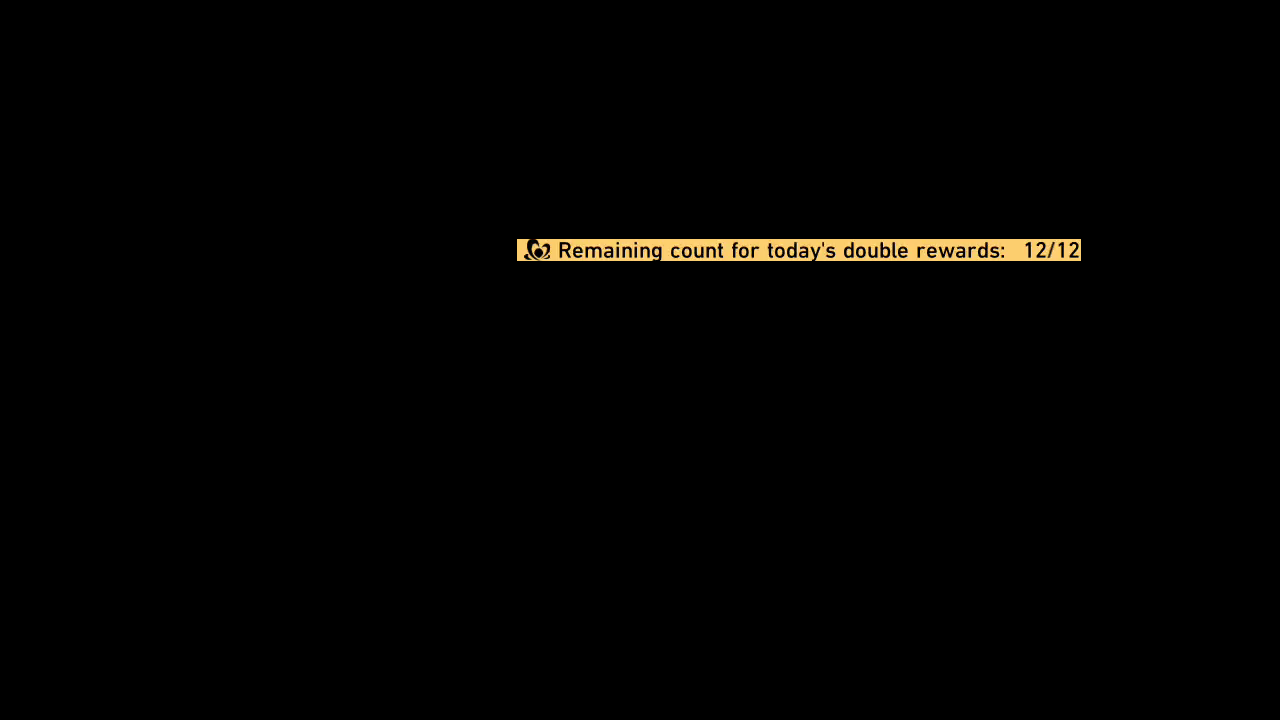
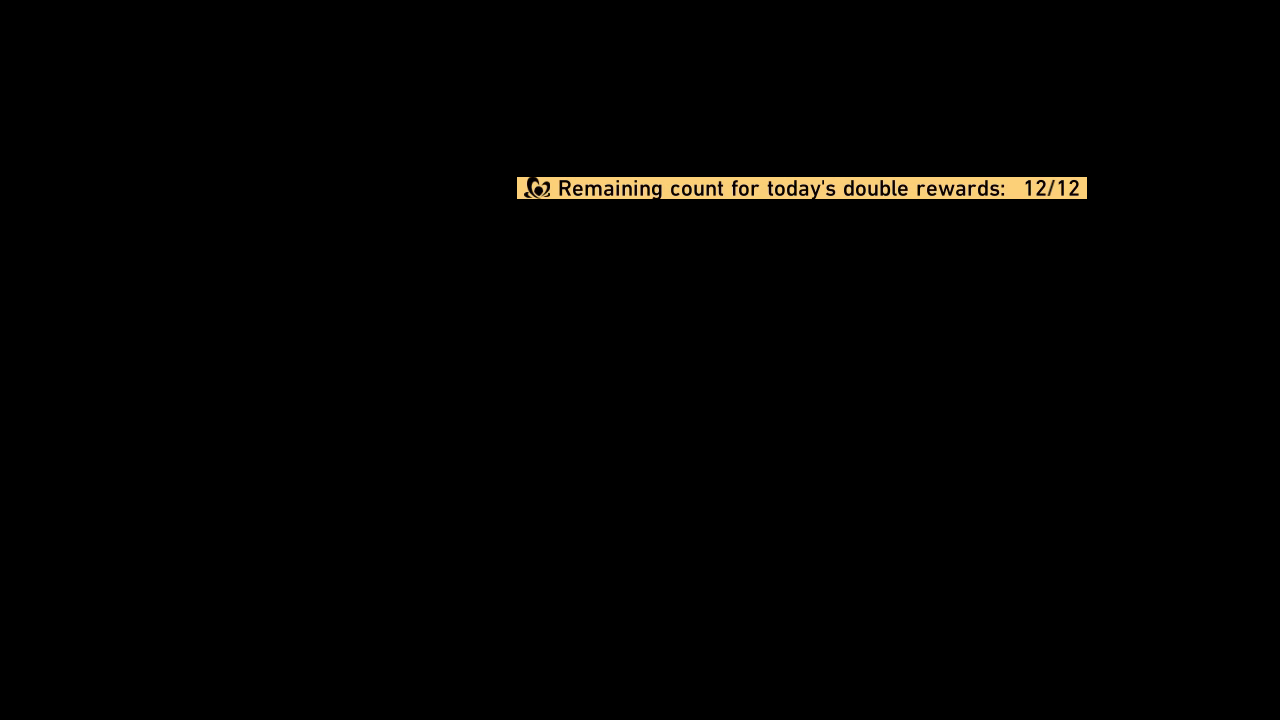
Upd: OCR_DOUBLE_EVENT_REMAIN

Changed region(s): [[0.4062, 0.3056, 0.8438, 0.3667], [0.4062, 0.2444, 0.875, 0.275]]

diff --git a/tasks/dungeon/assets/assets_dungeon_event.py b/tasks/dungeon/assets/assets_dungeon_event.py
@@ -37,10 +37,10 @@ OCR_DOUBLE_EVENT_REMAIN = ButtonWrapper(
     name='OCR_DOUBLE_EVENT_REMAIN',
     share=Button(
         file='./assets/share/dungeon/event/OCR_DOUBLE_EVENT_REMAIN.png',
-        area=(517, 239, 1081, 261),
-        search=(497, 219, 1101, 281),
-        color=(198, 161, 90),
-        button=(517, 239, 1081, 261),
+        area=(517, 177, 1087, 199),
+        search=(497, 157, 1107, 219),
+        color=(198, 163, 97),
+        button=(517, 177, 1087, 199),
     ),
 )
 OCR_DOUBLE_EVENT_REMAIN_AT_COMBAT = ButtonWrapper(
